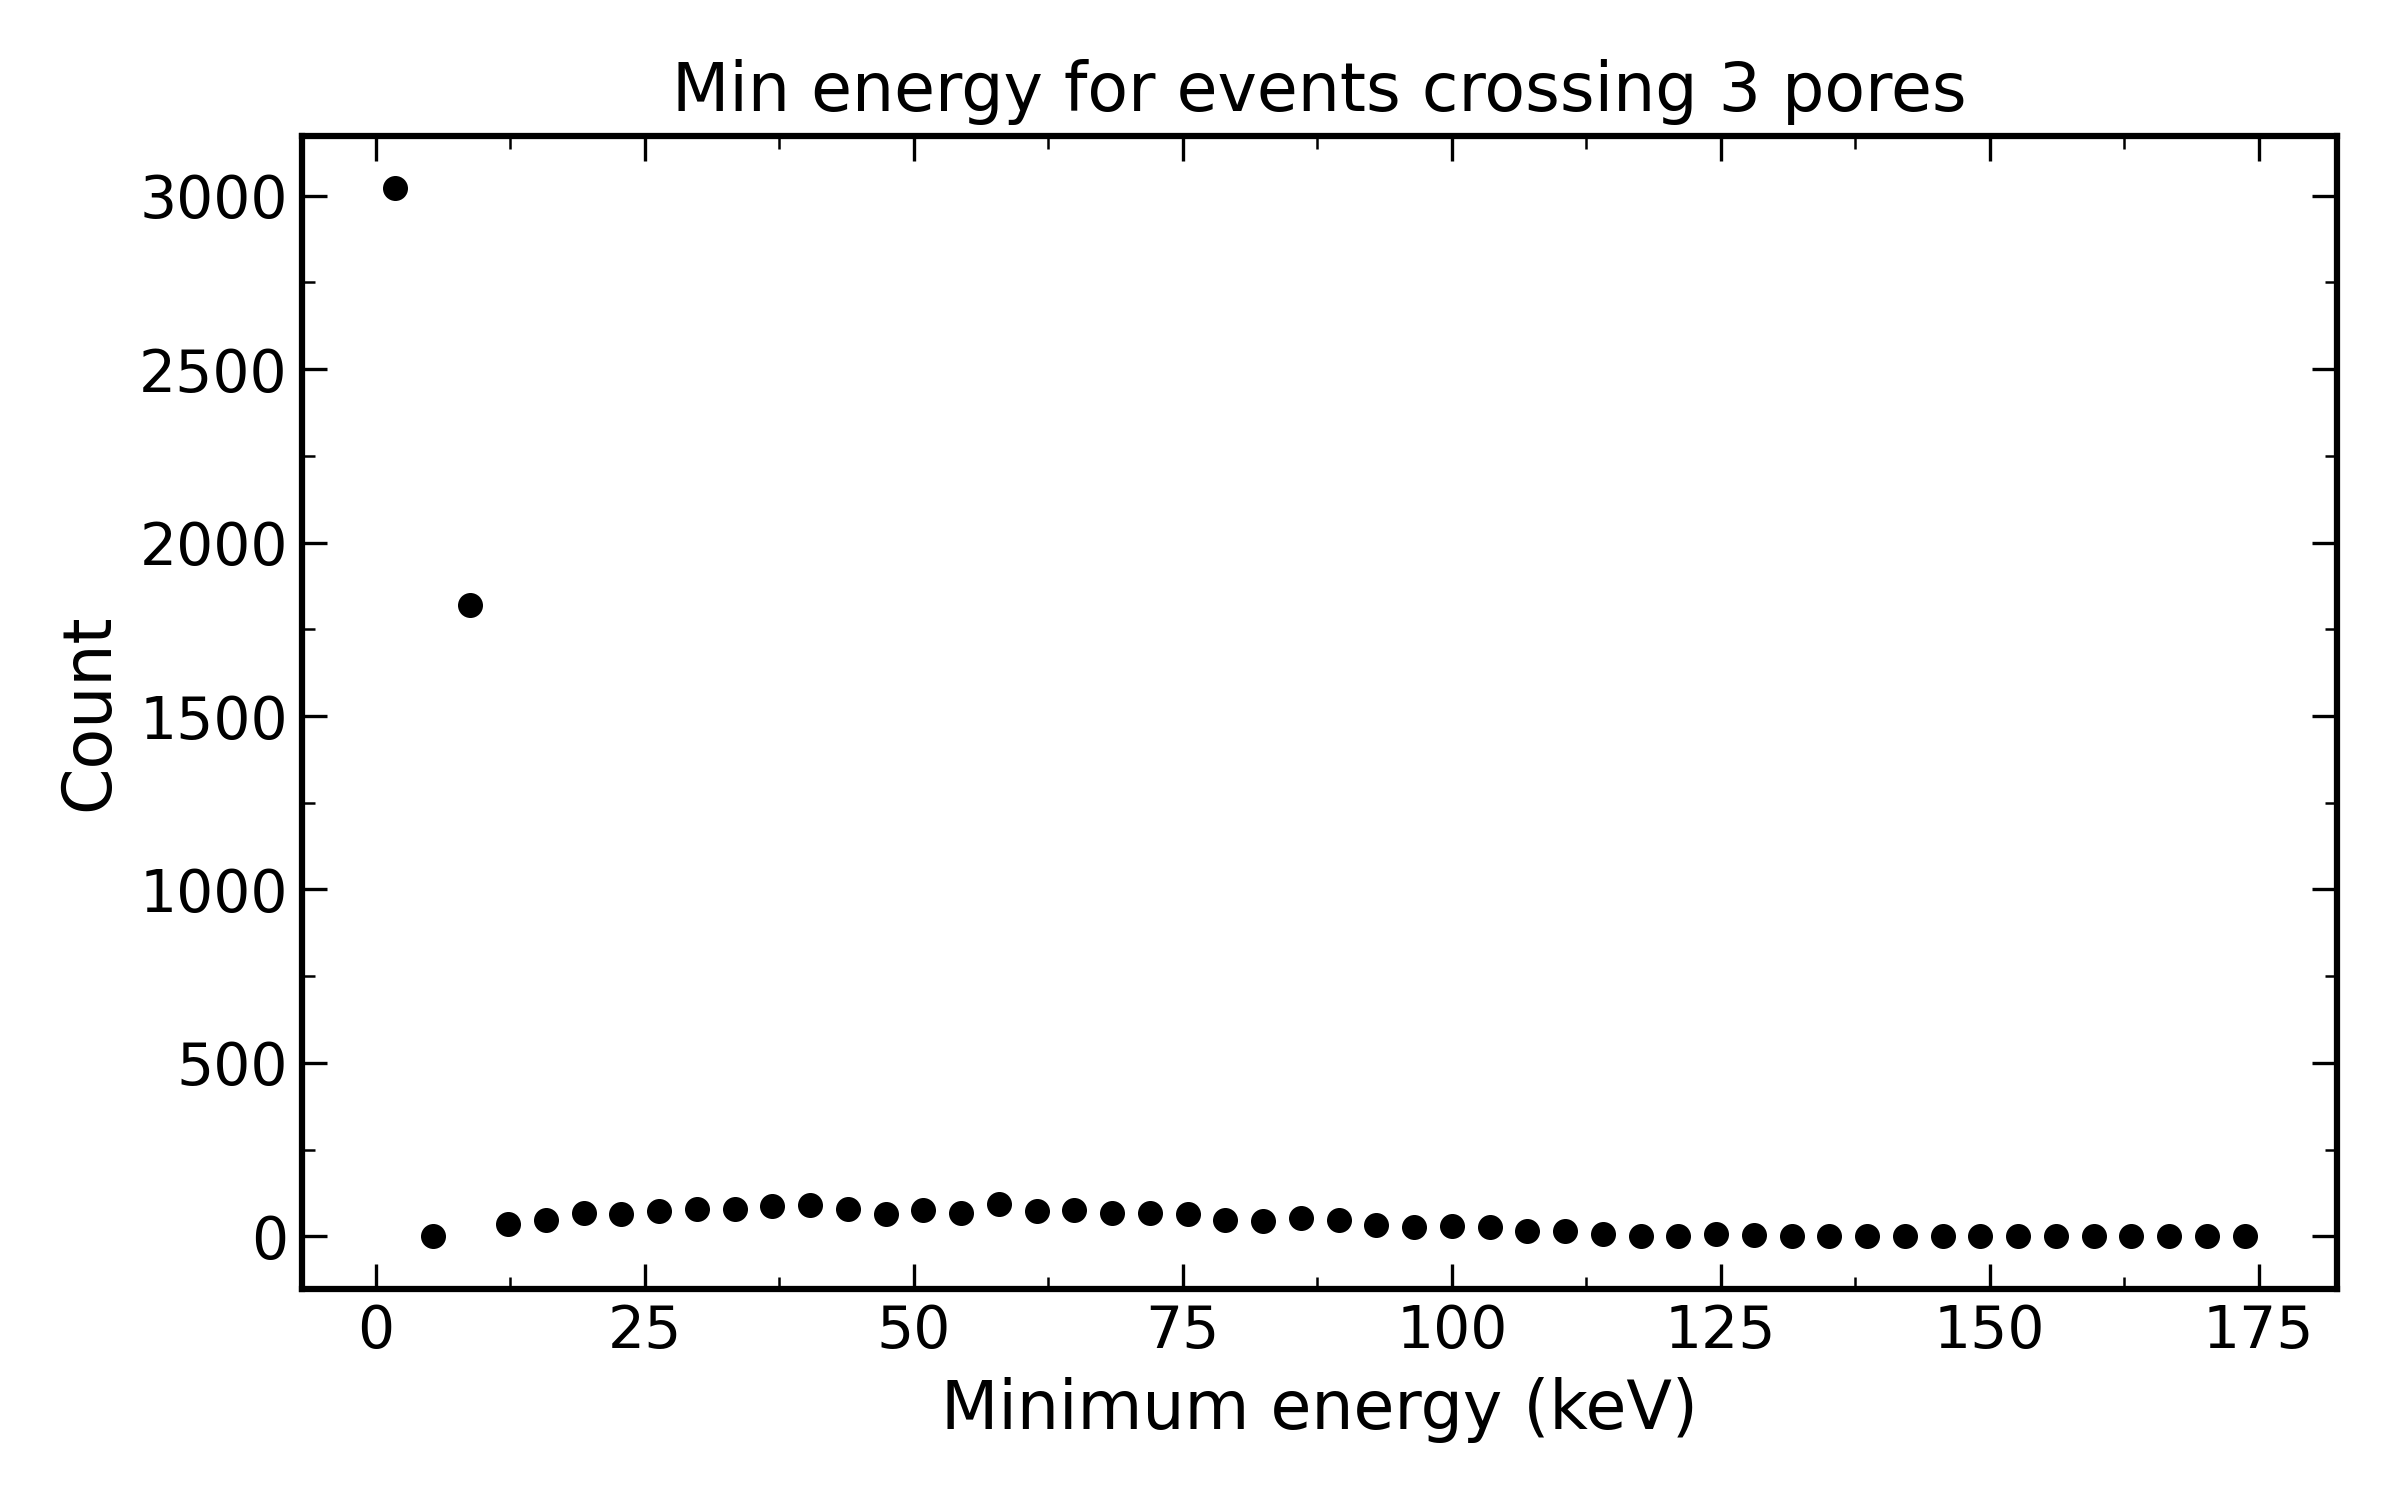
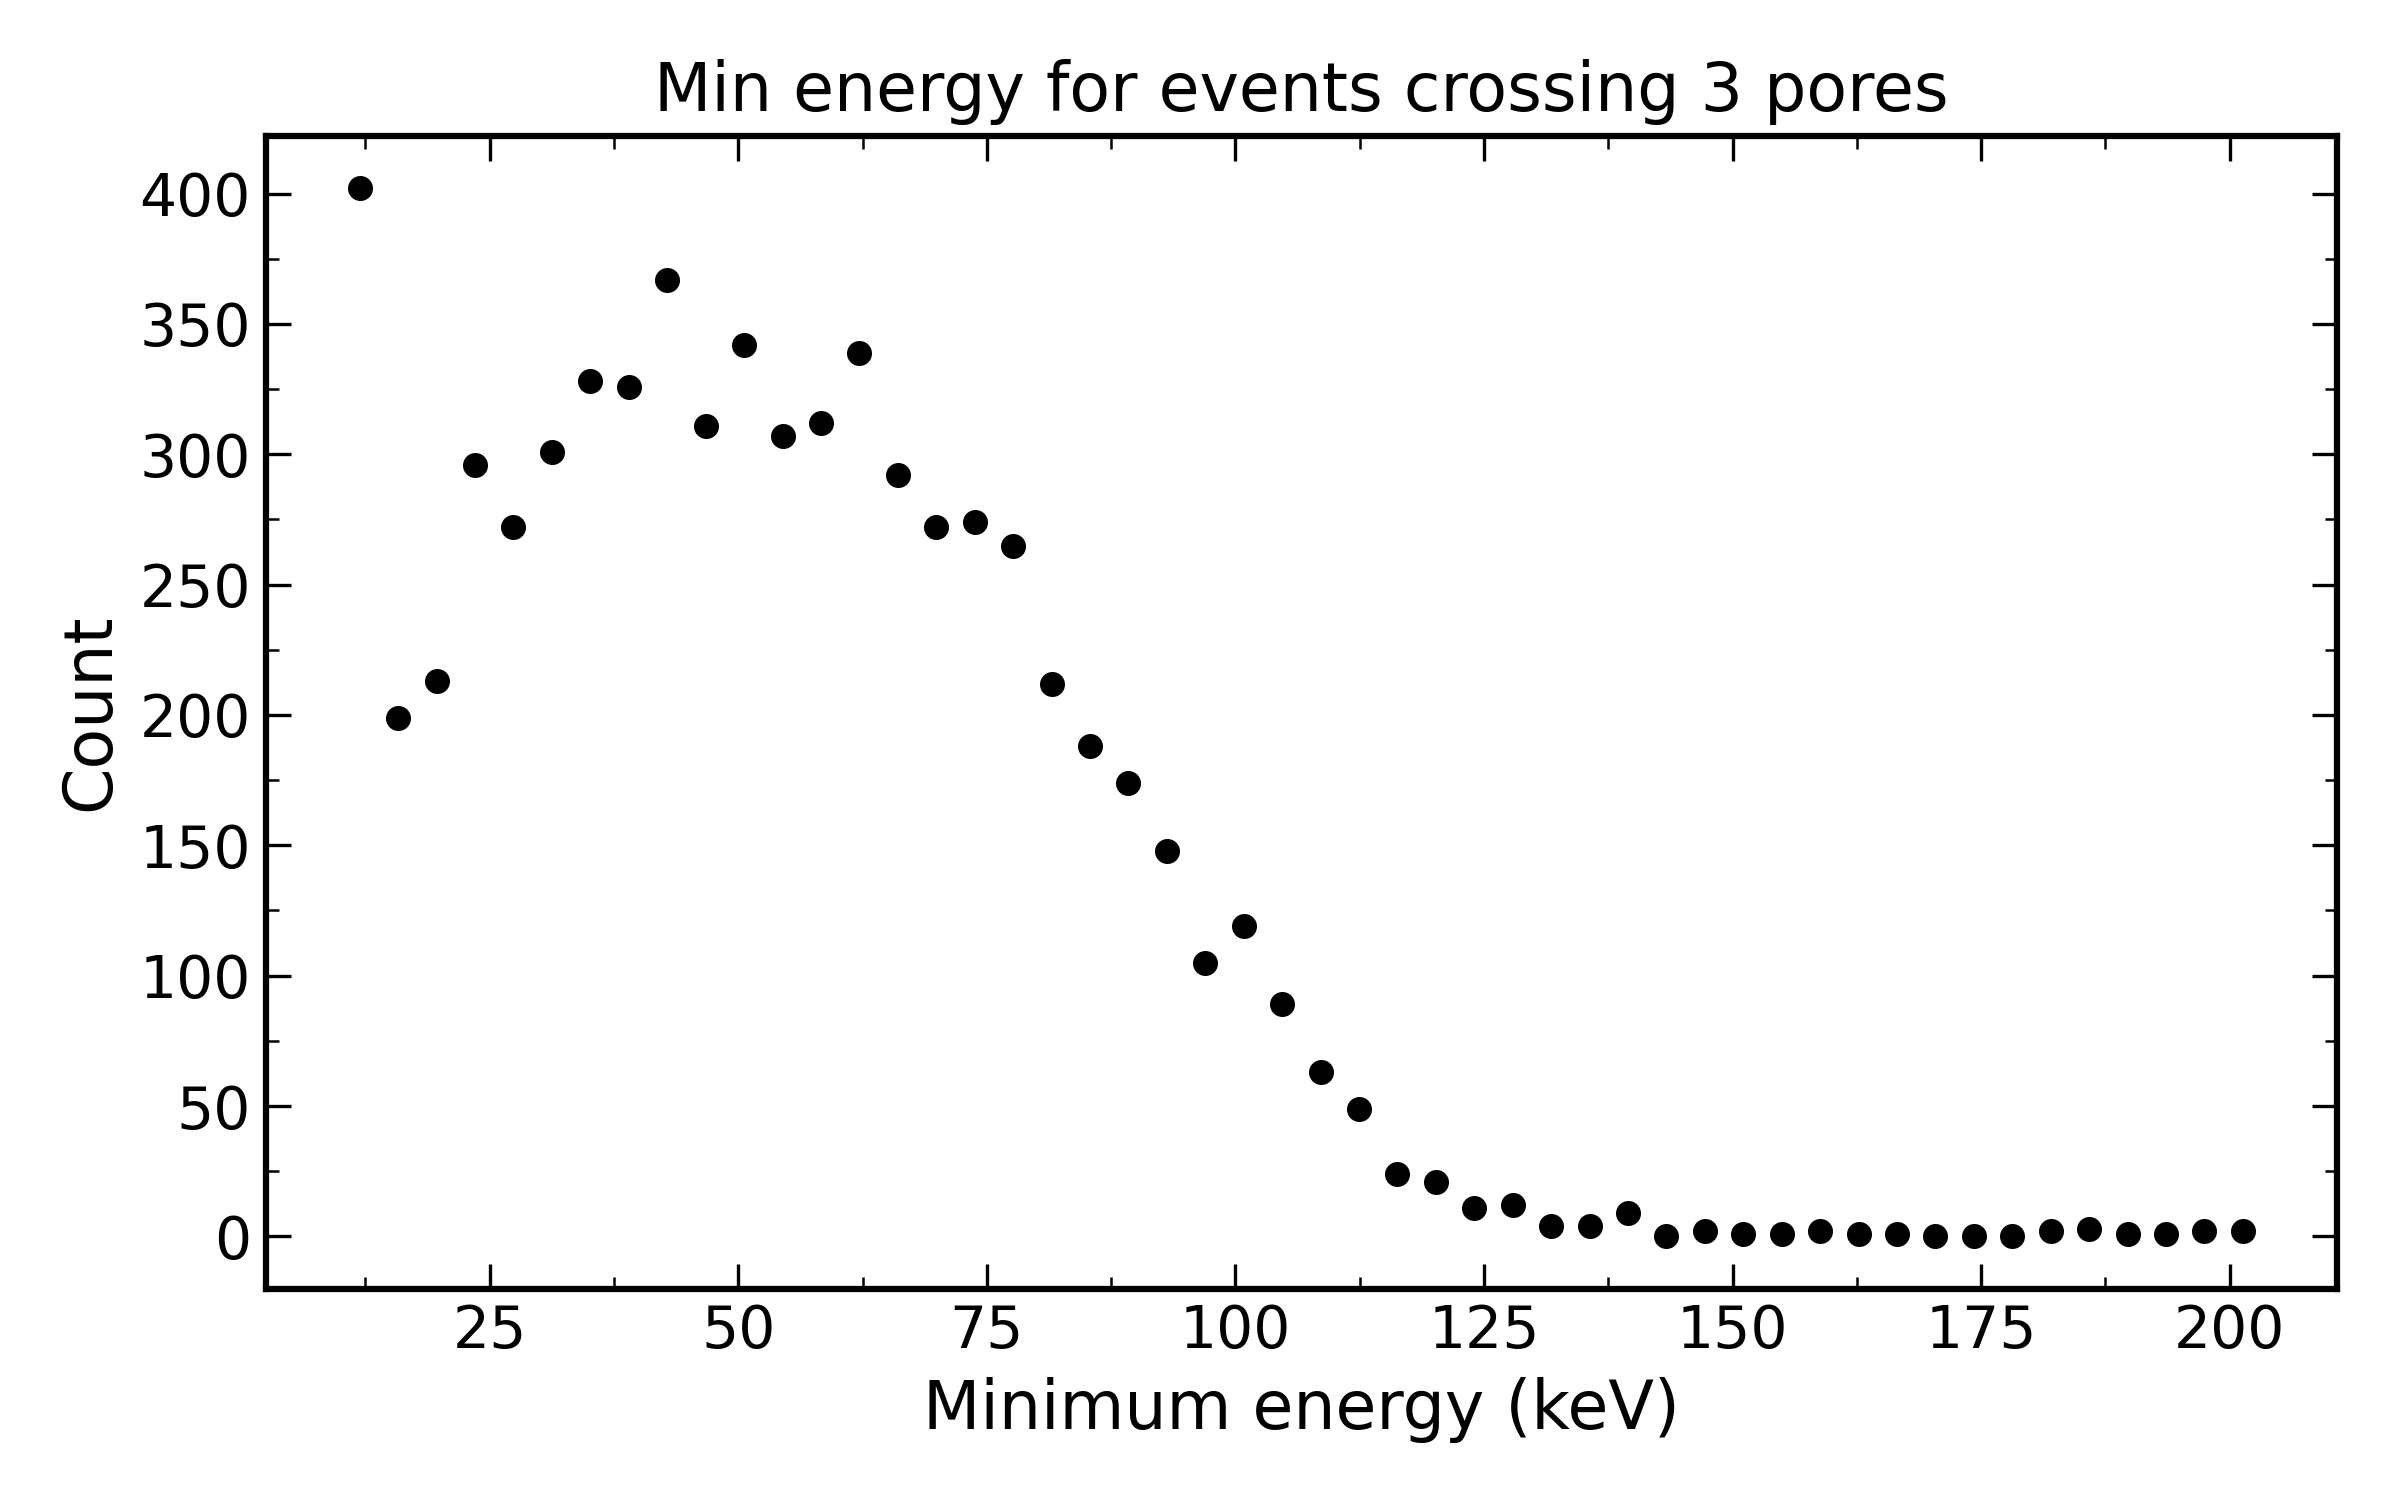
min energy and detection should be fixed

diff --git a/src/hgmt_structs.c b/src/hgmt_structs.c
@@ -69,51 +69,53 @@ bool plane_crossingv2(event *single_event){
     vec3d scatter_pos = vec_scale(single_event->position, 10);
     vec3d u = vec_norm(single_event->direction);
     double R_scatter = radial_dist(scatter_pos);
-    double phi_scatter = atan2(scatter_pos.y, scatter_pos.x);
+    double phi_scatter = wrap_2pi(atan2(scatter_pos.y, scatter_pos.x));
     double tau = um_to_mm(TAU);
     double alpha = um_to_mm(ALPHA);
-    double i = pg_nearest_int((R_scatter*phi_scatter)/(tau + alpha));//index of nearest pore
+    int i = pg_nearest_int((R_scatter*phi_scatter)/(tau + alpha));//index of nearest pore
 
-    //now I need to see if I am moving away from or towards this pore
-    double phi_pore = wrap_pi(i*(tau + alpha)/R_scatter);
-    //need to check if I am inside pore plane
-    if(R_scatter*fabs(wrap_pi(phi_scatter - phi_pore)) < alpha/2){
+    double pitch_phi = (tau + alpha) / R_scatter;
+    double phi_pore = i * pitch_phi;     // unwrapped
+    // check if scatter starts inside the pore (vacuum gap) -> exclude
+    double dphi_min = wrap_pi(phi_scatter - wrap_2pi(phi_pore));  // minimum signed diff in [-pi,pi]
+    if (R_scatter * fabs(dphi_min) < alpha/2) {
         return 0;
     }
 
-    double phi_diff = wrap_pi(phi_pore - phi_scatter);
     vec3d ephi = three_vec(-sin(phi_scatter), cos(phi_scatter), 0);
     double uphi = vec_dot(u, ephi);
-    
-    //adjusting pore to look at based on direction of scatter
-    if(uphi * phi_diff < 0){
-        if(phi_pore > phi_scatter){
-            i -= 1;
-            phi_pore = wrap_pi(i*(tau + alpha)/R_scatter);
-        }
-        else{
-            i += 1;
-            phi_pore = wrap_pi(i*(tau + alpha)/R_scatter);
-        }
+    int dir = (uphi >= 0) ? +1 : -1;
+
+    double dphi_fwd = (dir > 0) ? wrap_2pi(phi_pore - phi_scatter)
+                                : wrap_2pi(phi_scatter - phi_pore);
+
+    if (dphi_fwd > 0.5 * pitch_phi) {
+        i += dir;
+        phi_pore = i * pitch_phi;
+        dphi_fwd = (dir > 0) ? wrap_2pi(phi_pore - phi_scatter)
+                            : wrap_2pi(phi_scatter - phi_pore);
     }
+    double dphi_to_entrance = dphi_fwd - alpha/(2*R_scatter);
     //now we check if the electron reaches a pore
     double scatter_energy = single_event->energy;
     double s_max_mm = pg_kapton_range_mm(scatter_energy);
-    //first, we need to make adjustments to s_max_mm in case electron leaves first
-    //I will deal with that once I get things working
+
     vec3d final_pos = vec_add(scatter_pos, vec_scale(u, s_max_mm));
-    double r1 = R_scatter;
-    double r2 = radial_dist(final_pos);
-    double final_phi = atan2(final_pos.y, final_pos.x);
-    phi_diff = wrap_pi(final_phi - phi_scatter);
-    double pore_scatter_diff = wrap_pi(phi_pore - phi_scatter);
-    double r = (r1 + r2)/2;
-    double alpha_diff = wrap_pi(alpha/(2*r));
-    double angle_to_pore = wrap_pi(pore_scatter_diff - alpha_diff);
-    if (fabs(r*phi_diff) > fabs(r*angle_to_pore)){
-        return 1;
-    }
-    return 0;
+    double final_phi = wrap_2pi(atan2(final_pos.y, final_pos.x));
+
+    // total forward angular travel available
+    double dphi_total = (dir > 0) ? wrap_2pi(final_phi - phi_scatter)
+                                : wrap_2pi(phi_scatter - final_phi);
+
+    // forward angular distance to pore center (phi_pore must already be the "ahead" one)
+    double dphi_to_center = (dir > 0) ? wrap_2pi(phi_pore - phi_scatter)
+                                    : wrap_2pi(phi_scatter - phi_pore);
+
+    // forward angular distance to entrance
+    dphi_to_entrance = dphi_to_center - alpha/(2*R_scatter);
+    if (dphi_to_entrance < 0) dphi_to_entrance = 0;
+
+    return (dphi_total >= dphi_to_entrance);
 
     //commented out bottom due to problematic edge case that I try to fix above
     /*double phi1_mm = r1*phi_scatter;
@@ -186,11 +188,18 @@ int pores_crossed(event *first_hit){
     //technically electron won't lose energy in the pore
     //double r = (r1 + r2)/2;
     double phi_alpha_diff = alpha/(2*hit_R);
-    double new_phi = hit_phi + dir * phi_diff - dir * phi_alpha_diff;
-    double new_phi_diff = (dir > 0) ? wrap_2pi(final_phi - wrap_2pi(new_phi))
-                                 : wrap_2pi(wrap_2pi(new_phi) - final_phi);
-    //new_phi_diff now should always be positive.
-    int num_pores_crossed = 1 + floor(hit_R*new_phi_diff/tau);
+    // total forward travel from hit -> final, in the direction of motion
+    double dphi_total = (dir > 0) ? wrap_2pi(final_phi - hit_phi)
+                                : wrap_2pi(hit_phi - final_phi);
+    // forward travel from hit -> first pore entrance
+    double dphi_to_entrance = phi_diff - phi_alpha_diff;
+    // numerical safety
+    if (dphi_to_entrance < 0) dphi_to_entrance = 0;
+    // if it doesn't even reach the first entrance, it crosses 0 pores
+    // (if your dataset guarantees >=1 crossing, you can keep this anyway—it's harmless)
+    if (dphi_total < dphi_to_entrance) return 0;
+    double dphi_rem = dphi_total - dphi_to_entrance;
+    int num_pores_crossed = 1 + (int)floor((hit_R * dphi_rem) / tau);
     return num_pores_crossed;
 
 }
@@ -206,46 +215,44 @@ double min_energy(event *first_hit, int num_crosses){
     double hit_phi = wrap_2pi(atan2(hit_pos.y, hit_pos.x));
     double tau = um_to_mm(TAU);
     double alpha = um_to_mm(ALPHA);
-    double i = pg_nearest_int((hit_R*hit_phi)/(tau + alpha));//index of nearest pore
+    int i = pg_nearest_int((hit_R*hit_phi)/(tau + alpha));//index of nearest pore
 
-    double phi_pore = i*(tau + alpha)/hit_R;
-
-    double phi_diff = wrap_2pi(phi_pore - hit_phi);
+    double pitch_phi = (tau + alpha)/hit_R;
+    double phi_pore  = i * pitch_phi; 
     vec3d ephi = three_vec(-sin(hit_phi), cos(hit_phi), 0);
     double uphi = vec_dot(u, ephi);
     
-    //adjusting pore to look at based on direction of scatter
-    if(uphi * phi_diff < 0){
-        if(phi_pore > hit_phi){
-            i -= 1;
-            phi_pore = wrap_2pi(i*(tau + alpha)/hit_R);
-        }
-        else{
-            i += 1;
-            phi_pore = wrap_2pi(i*(tau + alpha)/hit_R);
-        }
+    int dir = (uphi >= 0) ? 1 : -1;
+    //this tells me how much phi I need to move in the dir of my electron to reach the pore
+    double dphi_fwd = (dir > 0) ? wrap_2pi(phi_pore - hit_phi): wrap_2pi(hit_phi - phi_pore);
+    //if the phi I need to move is really big, then I must be looking at the wrong pore. 
+    //I update it here.
+    if (dphi_fwd > 0.5*pitch_phi){
+        i += dir;
+        phi_pore = i*pitch_phi;
     }
+    //Now, what is the unsigned smallest angular difference between my pore phi and hit phi
+    //I will use this below to get to the angular coord of my first pore entrance.
+    double phi_diff = (dir > 0) ? wrap_2pi(phi_pore - hit_phi): wrap_2pi(hit_phi - phi_pore);
 
     double scatter_energy = first_hit->energy;
     double s_max_mm = pg_kapton_range_mm(scatter_energy);
-    vec3d final_pos = vec_add(hit_pos, vec_scale(u, s_max_mm));
-    double r1 = hit_R;
-    double r2 = radial_dist(final_pos);
+    //vec3d final_pos = vec_add(hit_pos, vec_scale(u, s_max_mm));
+    //double r1 = hit_R;
+    //double r2 = radial_dist(final_pos);
     //double final_phi = atan2(final_pos.y, final_pos.x);
 
     //now I need to find distance to first pore
-    double r = (r1 + r2)/2;
-    phi_diff = wrap_2pi(phi_pore - hit_phi);
-    double phi_alpha_diff = wrap_2pi(alpha/(2*r));
-    double phi_prime = hit_phi + phi_diff - phi_alpha_diff;
+    //double r = (r1 + r2)/2;
+    double phi_alpha_diff = alpha/(2*hit_R);
+    double phi_prime = hit_phi + dir * phi_diff - dir * phi_alpha_diff;
     //first need to find change of phi to first pore
     double t = (hit_pos.x*sin(phi_prime) - hit_pos.y*cos(phi_prime))/(u.y*cos(phi_prime) - u.x*sin(phi_prime));
     double new_range = s_max_mm - t;
     //double min_energy = scatter_energy - pg_kapton_energy_keV(new_range);
     double min_energy = pg_kapton_energy_keV(new_range);
     int num_pores = num_crosses - 1;
-    int dir = (uphi >= 0) ? +1 : -1;
-    double phi_per_pore = dir * (tau/r);
+    double phi_per_pore = dir * (tau/hit_R);
     double t_old = t;
     if (t < 0){
         printf("event detected?: %d\n", first_hit->detected);
@@ -254,7 +261,9 @@ double min_energy(event *first_hit, int num_crosses){
         printf("unit direction u: (%f, %f, %f)\n", u.x, u.y, u.z);
         printf("hit_phi: %f\n", hit_phi);
         printf("phi_pore: %f\n", phi_pore);
+        printf("num pores crossed: %u\n", num_pores);
         printf("t_first value: %f\n\n", t);
+        return 0;
     }
     for (int i = 0; i < num_pores; i ++){
         phi_prime += phi_per_pore;
@@ -269,7 +278,9 @@ double min_energy(event *first_hit, int num_crosses){
             printf("unit direction u: (%f, %f, %f)\n", u.x, u.y, u.z);
             printf("hit_phi: %f\n", hit_phi);
             printf("phi_pore: %f\n", phi_pore);
+            printf("num pores crossed: %u\n", num_pores);
             printf("t value: %f\n\n", t);
+            return 0;
         }
         //small cases where t is negative. will have to work through that. That doesn't make any sense tbh.
         //min_energy -= pg_kapton_energy_keV(new_range);

diff --git a/scripts/plot_pores_crossed.py b/scripts/plot_pores_crossed.py
@@ -32,6 +32,7 @@ print(f"Kept {len(pores)} events with >=1 pore crossed")
 # ------------------------------
 
 max_pores = min(pores.max(), max_pores_in_file)
+print("max_pores = " + str(max_pores))
 counts_exact = np.bincount(pores, minlength=max_pores + 1)
 # counts_exact[0] is for value 0, which we discarded; ignore index 0
 
